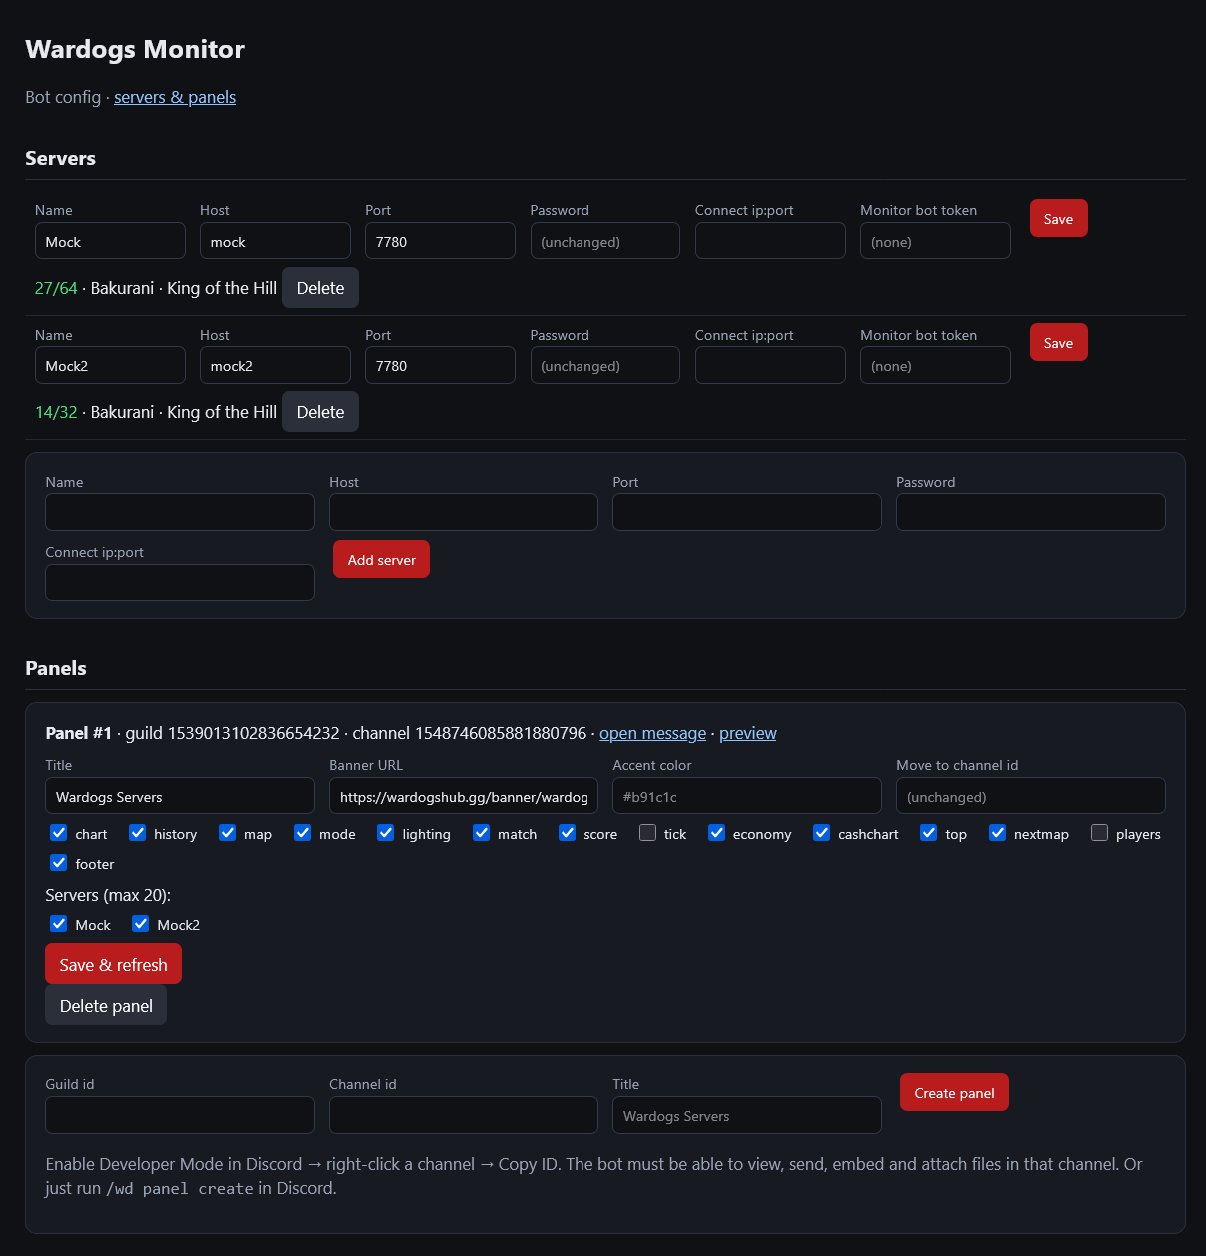
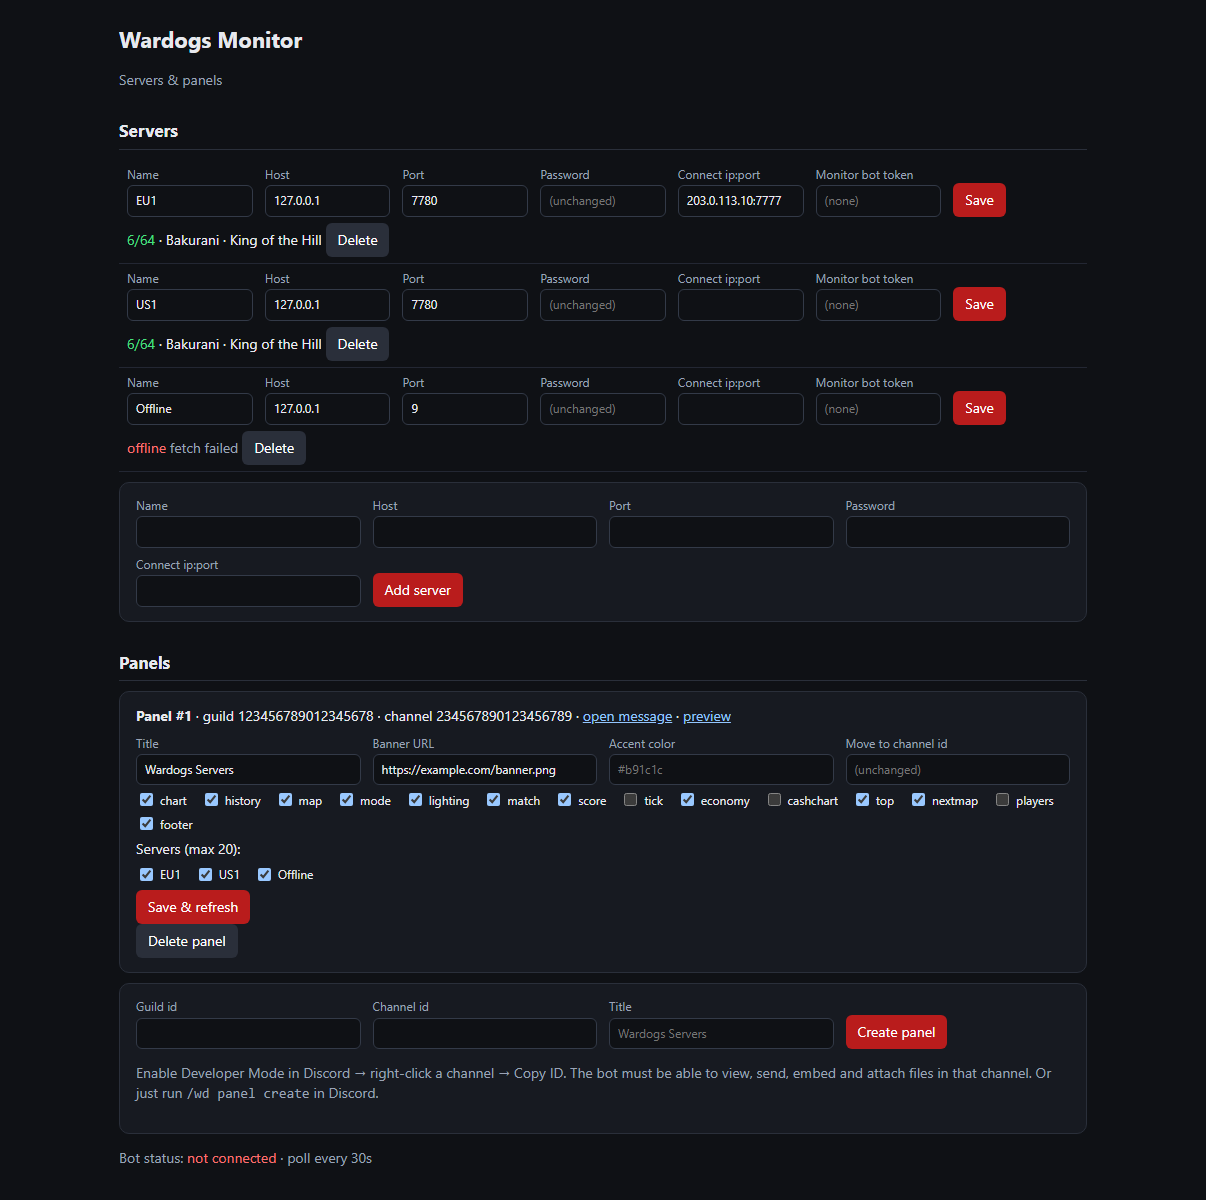
Web UI: align form buttons, drop self-link; regenerate screenshot

diff --git a/src/web.js b/src/web.js
@@ -27,13 +27,14 @@ input,select{background:#0f1115;color:#e7e9ee;border:1px solid #333a48;border-ra
 button{background:#b91c1c;color:#fff;border:0;border-radius:6px;padding:7px 12px;font:inherit;cursor:pointer}button.sec{background:#2a2f3a}
 form.inline{display:inline}.grid{display:grid;grid-template-columns:repeat(auto-fit,minmax(180px,1fr));gap:8px 12px}label{display:block;color:#9aa3b5;font-size:12px}label input,label select{width:100%;margin-top:2px}
 .ok{color:#4ade80}.bad{color:#f87171}.muted{color:#9aa3b5}.msg{background:#1f2937;border-left:3px solid #b91c1c;padding:8px 12px;border-radius:6px;margin:0 0 14px}
+.act{display:flex;align-items:flex-end}.act button{height:34px}
 .toggles{display:flex;flex-wrap:wrap;gap:6px 14px;margin:6px 0}.toggles label{display:inline-flex;gap:4px;align-items:center;color:#e7e9ee}
 a{color:#93c5fd}
 `;
 
 function page(title, body, msg) {
   return `<!doctype html><html><head><meta charset="utf-8"><meta name="viewport" content="width=device-width,initial-scale=1"><title>${esc(title)}</title><style>${CSS}</style></head><body><main>
-<h1>Wardogs Monitor</h1><p class="muted">Bot config · <a href="/">servers &amp; panels</a></p>
+<h1>Wardogs Monitor</h1><p class="muted">Servers &amp; panels</p>
 ${msg ? `<div class="msg">${esc(msg)}</div>` : ""}${body}</main></body></html>`;
 }
 
@@ -57,7 +58,7 @@ function indexPage(msg) {
   <label>Password<input name="password" type="password" placeholder="(unchanged)"></label>
   <label>Connect ip:port<input name="connect" value="${esc(s.connect)}"></label>
   <label>Monitor bot token<input name="monitor_token" type="password" placeholder="${s.monitor_token ? "(set — leave blank to keep)" : "(none)"}"></label>
-  <label>&nbsp;<button>Save</button></label>
+  <div class="act"><button>Save</button></div>
 </form>
 <div style="margin-top:6px">${liveCell(s)}
   <form class="inline" method="post" action="/servers/${s.id}/delete" onsubmit="return confirm('Delete this server and its history?')"><button class="sec">Delete</button></form>
@@ -70,7 +71,7 @@ function indexPage(msg) {
   <label>Port<input name="port" type="number" required min="1" max="65535"></label>
   <label>Password<input name="password" type="password" required></label>
   <label>Connect ip:port<input name="connect"></label>
-  <label>&nbsp;<button>Add server</button></label>
+  <div class="act"><button>Add server</button></div>
 </form></div>`;
 
   const panelCards = panels.map((p) => {
@@ -99,7 +100,7 @@ function indexPage(msg) {
   <label>Guild id<input name="guild_id" required></label>
   <label>Channel id<input name="channel_id" required></label>
   <label>Title<input name="title" placeholder="${esc(PANEL_DEFAULTS.title)}"></label>
-  <label>&nbsp;<button>Create panel</button></label>
+  <div class="act"><button>Create panel</button></div>
 </form><p class="muted">Enable Developer Mode in Discord → right-click a channel → Copy ID. The bot must be able to view, send, embed and attach files in that channel. Or just run <code>/wd panel create</code> in Discord.</p></div>`;
 
   return page("Wardogs Monitor", `
